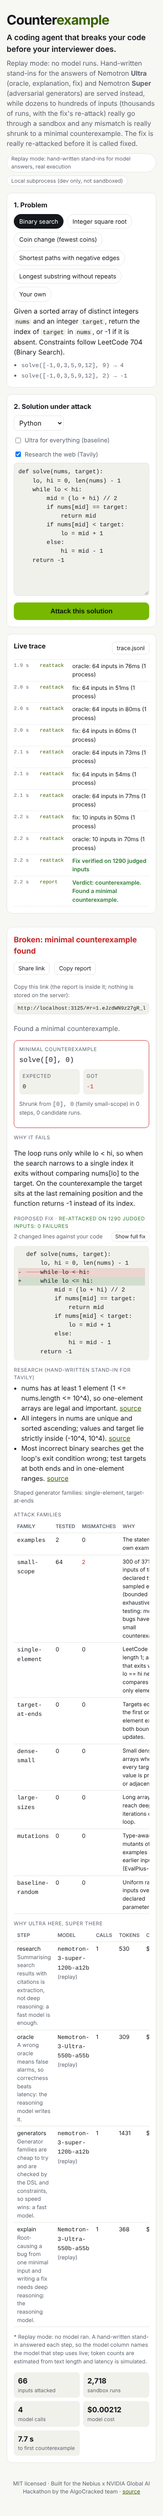
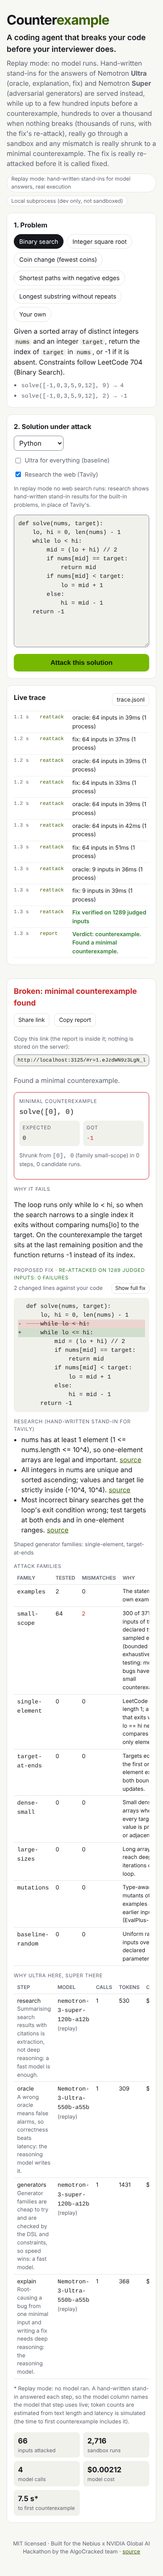
Screenshots retaken for the current UI (research note, field borders)
Claude-Session: https://claude.ai/code/session_01MhqWcN2Xy12avz8LfXtVq9

Changed region(s): [[0.0308, 0.0, 0.9231, 0.781], [0.0923, 0.656, 0.8923, 0.9997], [0.5846, 0.7498, 0.6154, 0.781]]

diff --git a/docs/SUBMISSION.md b/docs/SUBMISSION.md
@@ -31,7 +31,7 @@ A coding agent that breaks your code before your interviewer does: Nemotron writ
 ## Thumbnail and image gallery (Owner: upload)
 
 - Thumbnail: `docs/screenshots/devpost-thumbnail-1200x800.png` (3:2, 1200 x 800: the verdict, the minimal counterexample, the fix diff and the live trace). Devpost crops thumbnails to 3:2, so do not use the tall phone screenshots for it.
-- Gallery, in order: `docs/screenshots/devpost-thumbnail-1200x800.png`, `docs/architecture.svg` (export to PNG), then the phone screenshots `docs/screenshots/390-1-form.png`, `390-2-report.png` and `390-3-shared-link.png`. The form screenshot (390 x 1,574) can go up as it is; the report and shared-link screenshots are full pages (390 x 6,018 and 390 x 5,319), so crop them to the part worth seeing (the counterexample card; the shared banner) before uploading.
+- Gallery, in order: `docs/screenshots/devpost-thumbnail-1200x800.png`, `docs/architecture.svg` (export to PNG), then the phone screenshots `docs/screenshots/390-1-form.png`, `390-2-report.png` and `390-3-shared-link.png`. The form screenshot (390 x 1,697) can go up as it is; the report and shared-link screenshots are full pages (390 x 6,161 and 390 x 5,482), so crop them to the part worth seeing (the counterexample card; the shared banner) before uploading.
 
 ## Video demo link (Owner)
 
